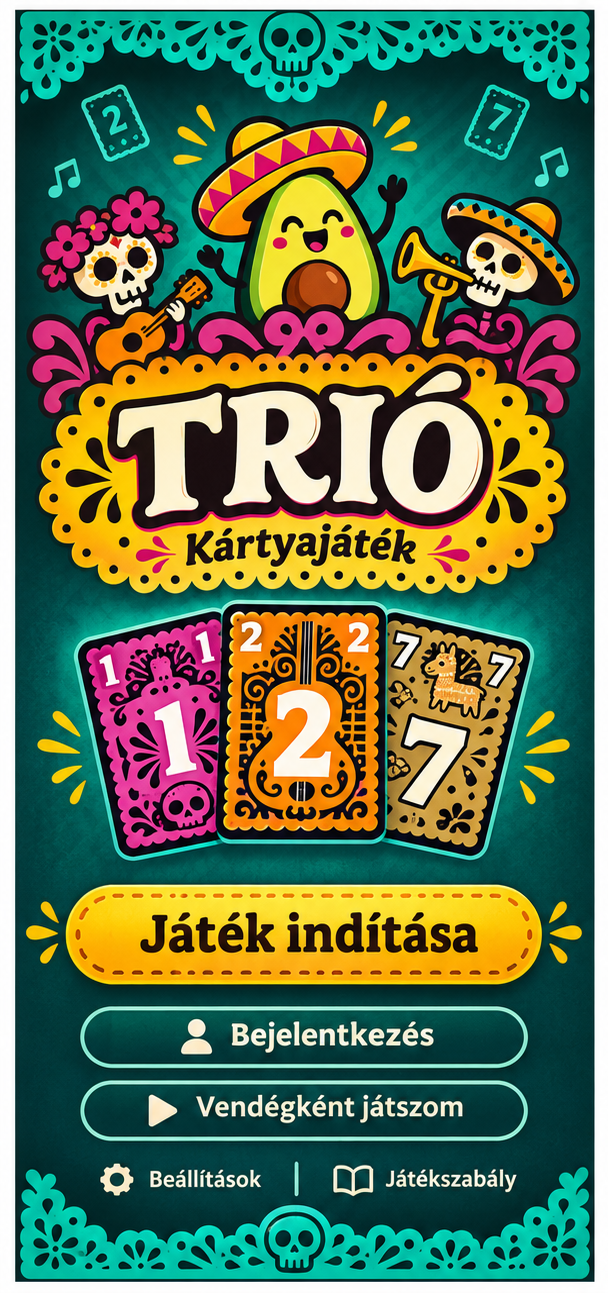
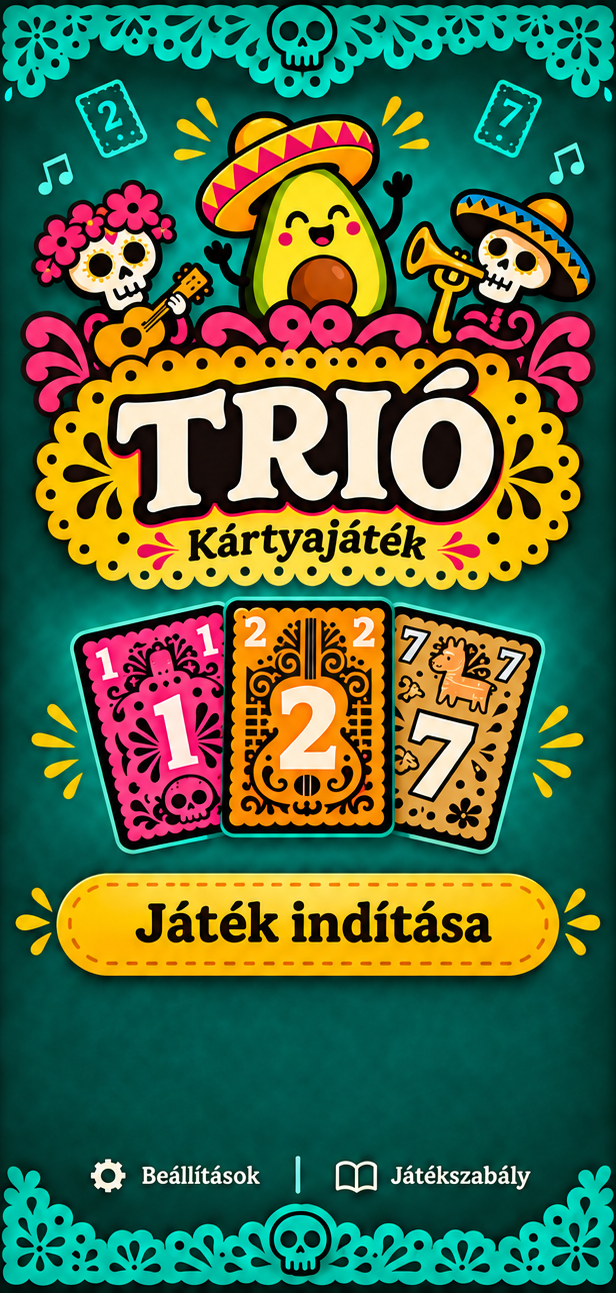
Use provided TRIO start screen artwork

diff --git a/mobile/lib/main.dart b/mobile/lib/main.dart
@@ -1116,22 +1116,11 @@ class _TrioGameState extends State<TrioGame> with TickerProviderStateMixin {
                     if (mounted) setState(() => coins = api.coins);
                   }
                 },
-                child: Container(
-                  decoration: BoxDecoration(
-                    color: const Color(0xff07534d),
-                    borderRadius: BorderRadius.circular(40),
-                    border: Border.all(color: const Color(0xff8ff1d7), width: 3),
-                  ),
-                  child: Row(
-                    mainAxisAlignment: MainAxisAlignment.center,
-                    children: [
-                      Icon(
-                        api.isAuthenticated ? Icons.logout : Icons.person,
-                        color: const Color(0xfffff0c7),
-                        size: 26,
-                      ),
-                    ],
-                  ),
+                child: Image.asset(
+                  api.isAuthenticated
+                      ? 'assets/design/logout_button.png'
+                      : 'assets/design/login_button.png',
+                  fit: BoxFit.contain,
                 ),
               ),
             ),

diff --git a/mobile/test/widget_test.dart b/mobile/test/widget_test.dart
@@ -1,5 +1,4 @@
 import 'package:flutter_test/flutter_test.dart';
-import 'package:flutter/material.dart';
 import 'package:trio_android/main.dart';
 
 void main() {
@@ -15,6 +14,6 @@ void main() {
   testWidgets('TRIO kezdőképernyő megjelenik', (tester) async {
     await tester.pumpWidget(const TrioApp());
     expect(find.bySemanticsLabel('Játék indítása'), findsOneWidget);
-    expect(find.byIcon(Icons.person), findsOneWidget);
+    expect(find.bySemanticsLabel('Bejelentkezés'), findsOneWidget);
   });
 }

diff --git a/docs/CURRENT_HANDOFF.md b/docs/CURRENT_HANDOFF.md
@@ -110,3 +110,4 @@ olvassa el.
 ## Ikonos bejelentkezési gomb – 2026-11-19
 
 - A kezdőképernyő mintaképéhez igazítva a gomb most csak az állapotnak megfelelő ikont mutatja, felirat nélkül.
+- A kezdőképernyő háttérképe és a be-/kijelentkezési gombok a kapott TRIO-grafikákra cserélve.
